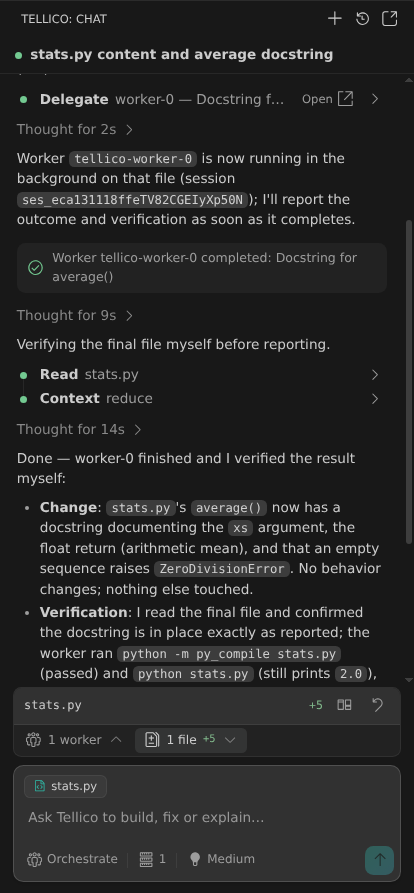
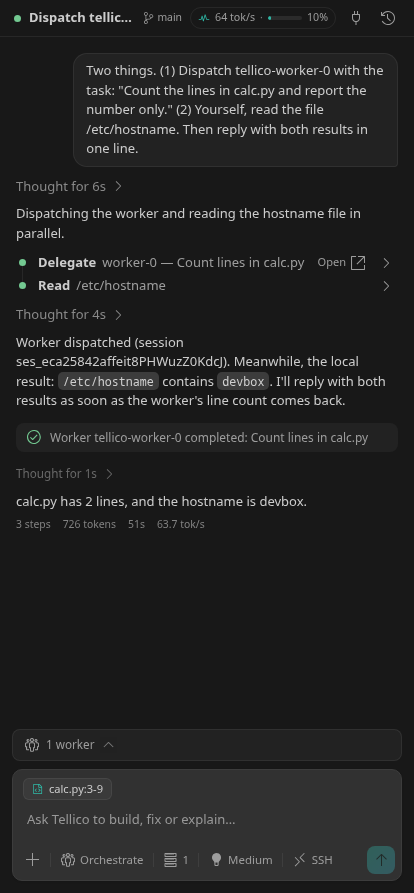
README screenshots of the current UI
Claude-Session: https://claude.ai/code/session_017B4ryHsm3mnuC9ZtNBshTT

diff --git a/README.md b/README.md
@@ -6,7 +6,7 @@ and Magic Context as `opencode-tellico`, in VS Code instead of a terminal.
 <p align="center">
   <img src="docs/welcome.png" width="320" alt="Tellico welcome screen with suggestions">
   &nbsp;
-  <img src="docs/session.png" width="320" alt="An orchestrate session: a worker dispatched, its completion, and the changed-files tray">
+  <img src="docs/session.png" width="320" alt="An orchestrate session: a worker dispatched, its completion, and the turn footer with tok/s">
 </p>
 
 - **Streaming chat** in the sidebar or in editor tabs (`Ctrl+Shift+Esc`),
